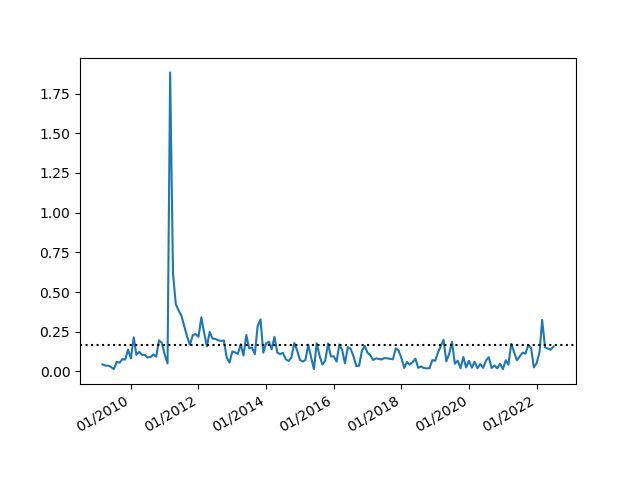
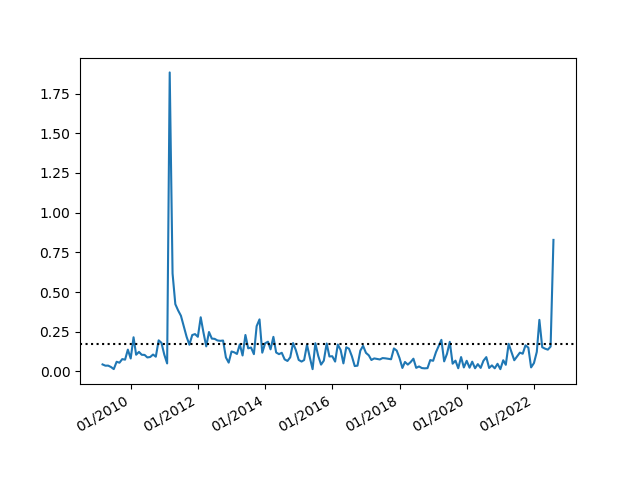
Update for 08/2022

diff --git a/README.md b/README.md
@@ -27,6 +27,8 @@ Just a curiosity project to see the impact of Russia's scare tactics
 
 - First spike was Fukushima which was the biggest spike
 
+- Latest spike (08/2022) is from Zaporizhzhya NPP
+
 ### "Nuclear Weapons"
 
 ![alt text](https://github.com/Covac/Nuclear-Scare/blob/main/Graphs/Nuclear_weapons_only.png)
